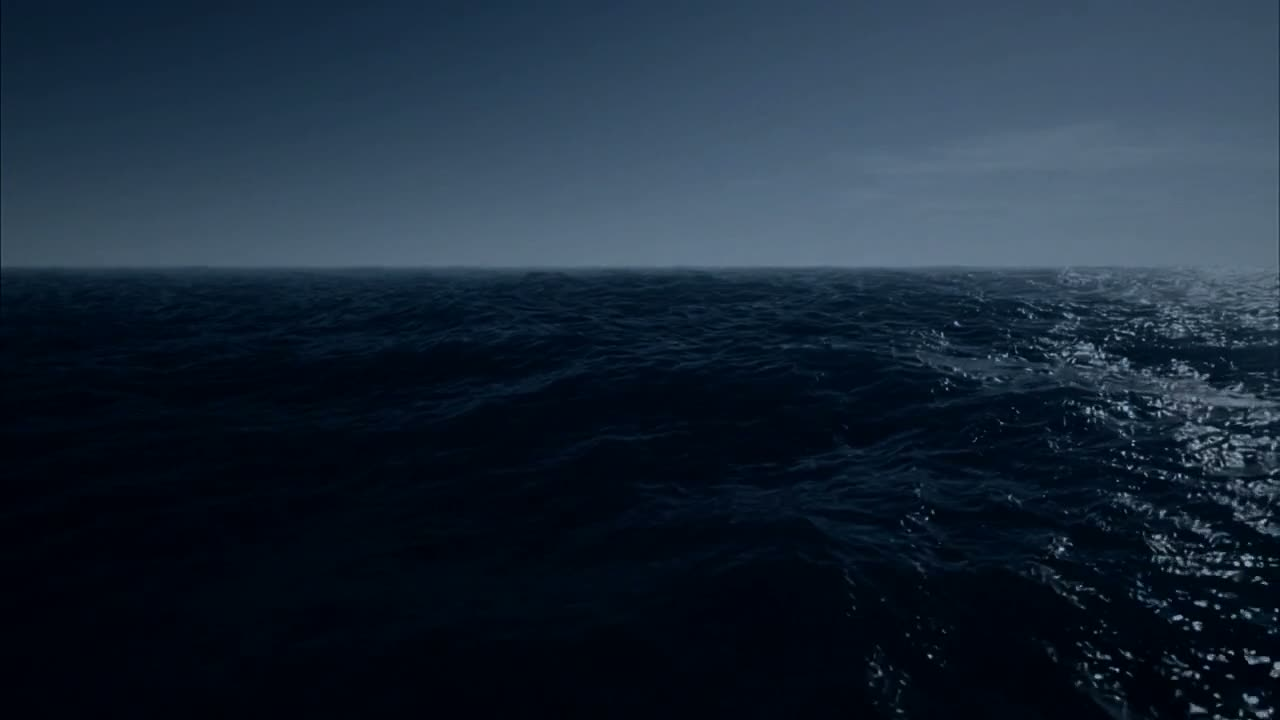
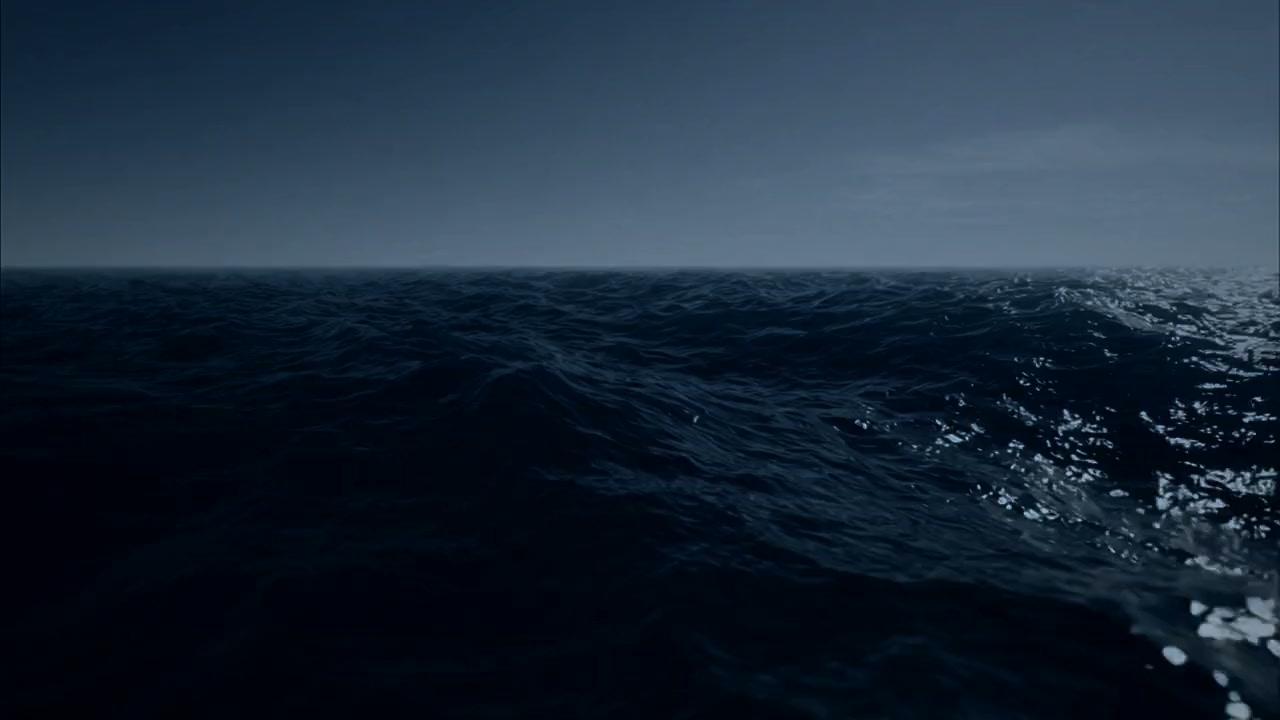
Align sea fallback and mobile journal controls

diff --git a/assets/styles.css b/assets/styles.css
@@ -50,6 +50,7 @@
   --shoal-on-sea: rgb(255 248 237 / 14%);
   --surface-water: var(--paper);
   --hero-shade: linear-gradient(rgb(0 10 16 / 56%), rgb(0 8 13 / 64%));
+  --hero-sea-static-image: url("hero-sea-poster.webp");
   --bioluminescence-display: none;
   --bioluminescence-opacity: 0;
   --bioluminescence-wake: transparent;
@@ -120,6 +121,7 @@
     radial-gradient(ellipse at 14% 0%, rgb(74 158 171 / 7%), transparent 34rem),
     var(--paper);
   --hero-shade: linear-gradient(rgb(0 15 24 / 24%), rgb(0 8 14 / 44%));
+  --hero-sea-static-image: url("hero-sea-night-poster.jpg");
   --bioluminescence-display: block;
   --bioluminescence-opacity: 0.72;
   --bioluminescence-wake: rgb(82 190 191 / 14%);
@@ -172,6 +174,7 @@
       radial-gradient(ellipse at 14% 0%, rgb(74 158 171 / 7%), transparent 34rem),
       var(--paper);
     --hero-shade: linear-gradient(rgb(0 15 24 / 24%), rgb(0 8 14 / 44%));
+    --hero-sea-static-image: url("hero-sea-night-poster.jpg");
     --bioluminescence-display: block;
     --bioluminescence-opacity: 0.72;
     --bioluminescence-wake: rgb(82 190 191 / 14%);
@@ -510,7 +513,7 @@ a.source-brand {
   place-items: center;
   overflow: hidden;
   background:
-    url("hero-ocean.jpg") center 52% / cover no-repeat,
+    var(--hero-sea-static-image) 56% center / cover no-repeat,
     #163c4b;
   color: var(--on-image);
 }
@@ -566,7 +569,7 @@ a.source-brand {
   text-shadow: 0 0.1rem 1.2rem rgb(0 0 0 / 22%);
 }
 
-.source-hero__content p {
+.source-hero__copy > p {
   margin-bottom: 0;
   font-size: clamp(1.125rem, 1.15vw, 1.25rem);
   line-height: 1.52;
@@ -741,6 +744,7 @@ a.source-brand {
 .source-hero__journal-status {
   margin: 0;
   color: var(--on-image);
+  font-family: var(--sans);
   font-size: var(--text-meta);
   font-weight: 600;
   letter-spacing: 0.06em;
@@ -2866,7 +2870,7 @@ a.site-menu__brand {
     min-height: 0;
     height: auto;
     place-items: stretch;
-    background-position: 50% bottom;
+    background-position: 56% bottom;
     background-size: auto 145%;
   }
 
@@ -2932,7 +2936,7 @@ a.site-menu__brand {
     filter: none;
   }
 
-  .source-hero__content p {
+  .source-hero__copy > p {
     max-width: 100%;
     margin-inline: auto;
     font-family: var(--serif);
@@ -3022,10 +3026,15 @@ a.site-menu__brand {
     margin-top: 0.3rem;
   }
 
-  .source-hero__journal-control,
-  .source-hero__journal-next-slot {
+  .source-hero__journal-control {
     width: 44px;
     min-width: 44px;
+    height: 44px;
+  }
+
+  .source-hero__journal-next-slot {
+    width: 100%;
+    min-width: 80px;
     height: 44px;
   }
 

diff --git a/assets/hero-sea-night.provenance.md b/assets/hero-sea-night.provenance.md
@@ -11,6 +11,6 @@
 Виньетка едва заметна и не меняет композицию.
 
 Экспорт: H.264 High, `yuv420p`, CRF 21, `faststart`, без звука и метаданных.
-Постер `hero-sea-night-poster.jpg` взят из ролика на третьей секунде. Контрольные
-суммы и технические параметры зафиксированы в
-`hero-sea-night.manifest.json`.
+Постер `hero-sea-night-poster.jpg` взят из первого кадра ролика (0:00), чтобы
+статическое состояние без скачка переходило в воспроизведение. Контрольные суммы
+и технические параметры зафиксированы в `hero-sea-night.manifest.json`.
